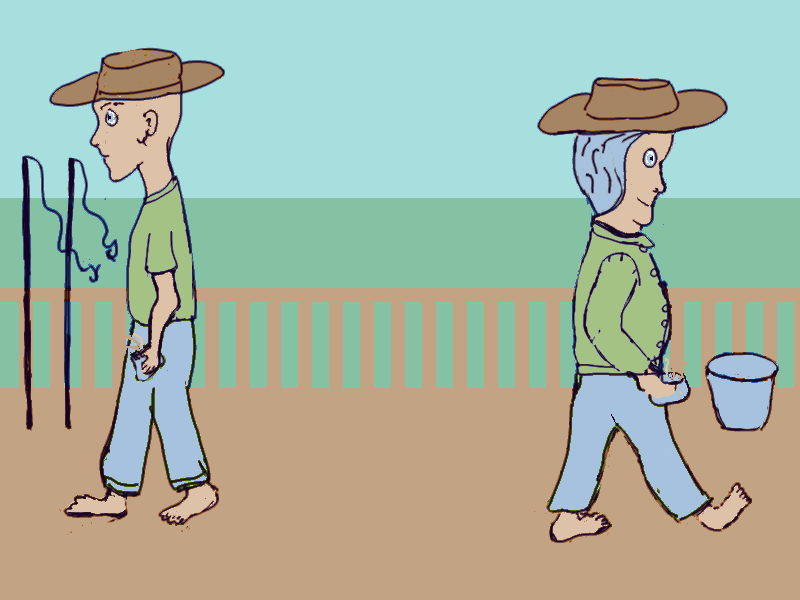
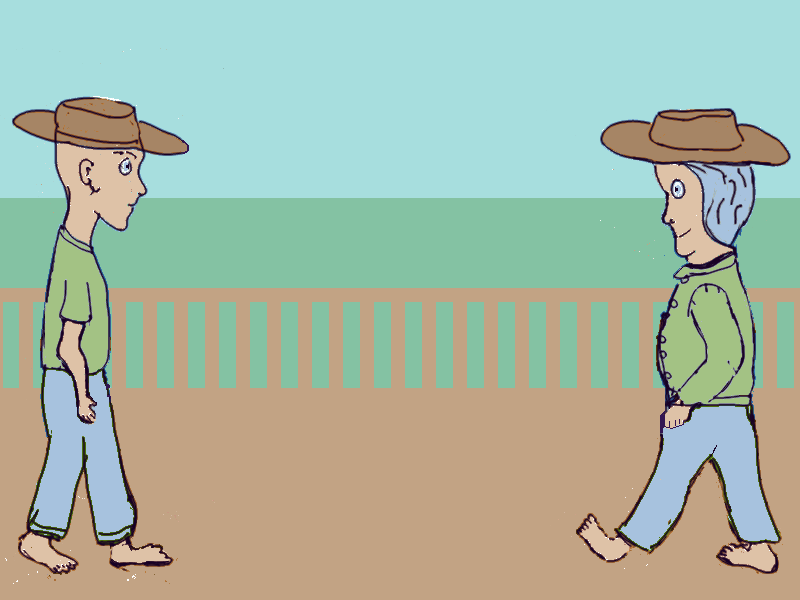
Changed title. Updated Title Graphic.
svn path=/trunk/; revision=215

diff --git a/Source/TitleScene.cpp b/Source/TitleScene.cpp
@@ -71,7 +71,7 @@ TitleScene::TitleScene(boost::shared_ptr<boost::shared_ptr<Scene> >
     masterClockPublisher(MasterClockPublisher::getInstance()), clockSubscriber(
     masterClockPublisher, MasterClockPublisher::customDeleter), MiSubscriber(
     keyboardPublisher), renderer(renderer), titleBackground(
-    "../Media/TitleBackground.png", 0, BACKGROUND_POSITION(), screenSize),
+    "../Media/TitleCombined.png", 0, BACKGROUND_POSITION(), screenSize),
     quit(false), jukebox(Jukebox::getInstance()), jukeboxSubscriber(
     jukebox, Jukebox::customDeleter)
 {
@@ -205,7 +205,7 @@ void TitleScene::draw(boost::shared_ptr<Layout> &layout, Renderer &renderer)
 
 void TitleScene::loadImage(Renderer &renderer)
 {
-    renderer.loadImage("../Media/TitleBackground.png");
+    renderer.loadImage("../Media/TitleCombined.png");
 }
 
 bool TitleScene::shouldExit()

diff --git a/Source/SeaBassShowdown.cpp b/Source/SeaBassShowdown.cpp
@@ -80,7 +80,7 @@ int main(int argc, char **argv)
     boost::shared_ptr<FrameCleanupPublisher> frameCleanupPublisher(new
         FrameCleanupPublisher);
     boost::shared_ptr<Renderer> renderer(
-        new Renderer(screenResolution, "Sea Bass Showdown", SDL_WINDOW_OPENGL,
+        new Renderer(screenResolution, "Fish Sky Sea", SDL_WINDOW_OPENGL,
         "../Media/Fonts/gentium/Gentium-R.ttf", frameCleanupPublisher)); 
     boost::shared_ptr<KeyboardPublisher> keyboardPublisher(new
         KeyboardPublisher);

diff --git a/Source/Line.cpp b/Source/Line.cpp
@@ -748,7 +748,7 @@ void Line::draw(boost::shared_ptr<Layout> &layout, Renderer &renderer)
         return;
 
     const Uint32 WHITE = renderer.makeColor(0xf0, 0xfa, 0xfa, 0xff);
-    const Uint32 SURFACE_BLUE = renderer.makeColor(0x84, 0xc2, 0xc2, 0xff);
+    const Uint32 SURFACE_BLUE = renderer.makeColor(0x84, 0xc2, 0x84, 0xff);
     const Uint32 OCEAN_BLUE = renderer.makeColor(0x4e, 0x4e, 0x80, 0xff);
     const Uint32 POLE_RED = renderer.makeColor(0x3a, 0x18, 0x5c, 0x00);
     Dimension size(800.0, 600.0);

diff --git a/Source/TitleMenu.cpp b/Source/TitleMenu.cpp
@@ -156,7 +156,7 @@ void TitleMenu::loadImage(Renderer &renderer)
     const Point POSITION(0.0, 0.0);
     const Dimension SIZE(StandardUnit::DIMENSION() * 30.0, StandardUnit::
         DIMENSION() * 10.0);
-    const SDL_Color COLOR = StandardUnit::SDL_BLACK();
+    const SDL_Color COLOR = { 0xc2, 0xde, 0xa7, 0x00 };
     const int BORDER_SIZE = 0;
     std::string menuText; 
 
